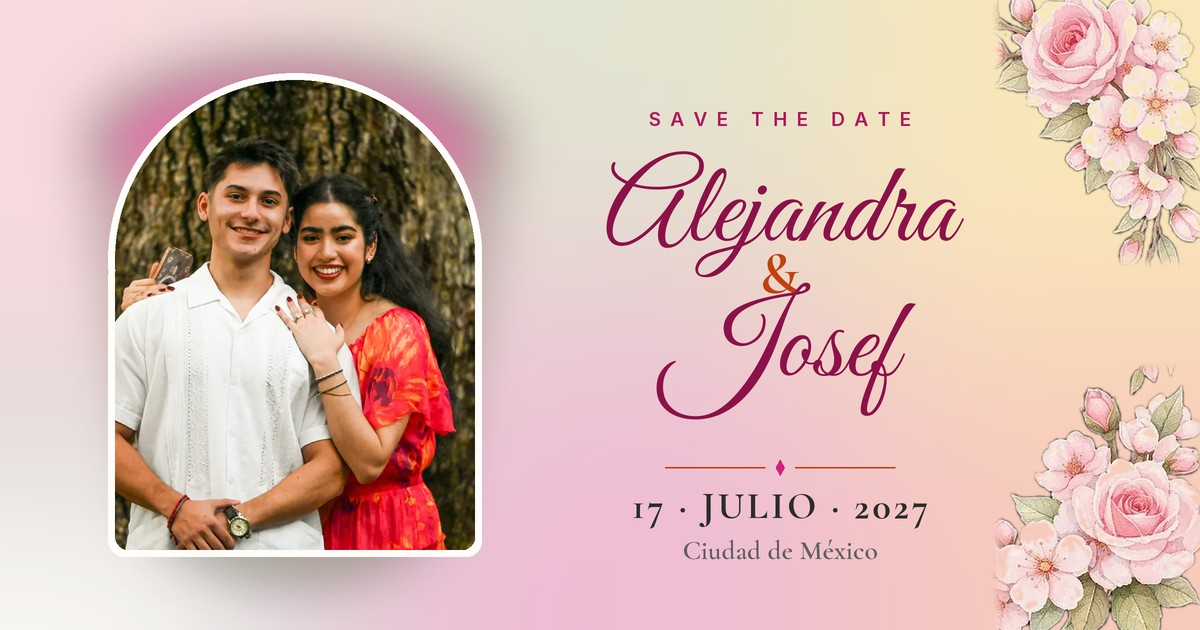
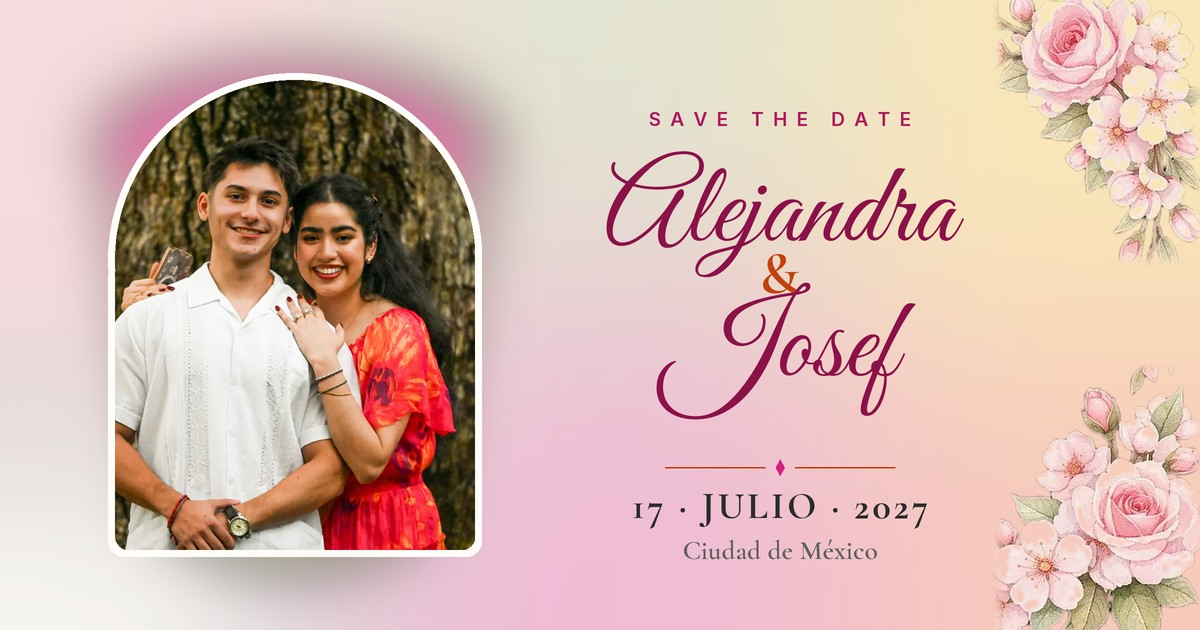
chore: og con rosas sin halo

diff --git a/src/app/layout.tsx b/src/app/layout.tsx
@@ -40,13 +40,13 @@ export const metadata: Metadata = {
     siteName: "Save the Date Alejandra & Josef",
     locale: "es_MX",
     type: "website",
-    images: [{ url: "https://save-the-date-alejandra-y-josef.vercel.app/og-image.jpg?v=3", width: 1200, height: 630, alt: "Save the Date Alejandra & Josef" }],
+    images: [{ url: "https://save-the-date-alejandra-y-josef.vercel.app/og-image.jpg?v=4", width: 1200, height: 630, alt: "Save the Date Alejandra & Josef" }],
   },
   twitter: {
     card: "summary_large_image",
     title: "Save the Date · Alejandra & Josef — 17 Julio 2027",
     description: "Reserva la fecha: 17 de julio de 2027 · Ciudad de México.",
-    images: ["https://save-the-date-alejandra-y-josef.vercel.app/og-image.jpg?v=3"],
+    images: ["https://save-the-date-alejandra-y-josef.vercel.app/og-image.jpg?v=4"],
   },
 };
 
